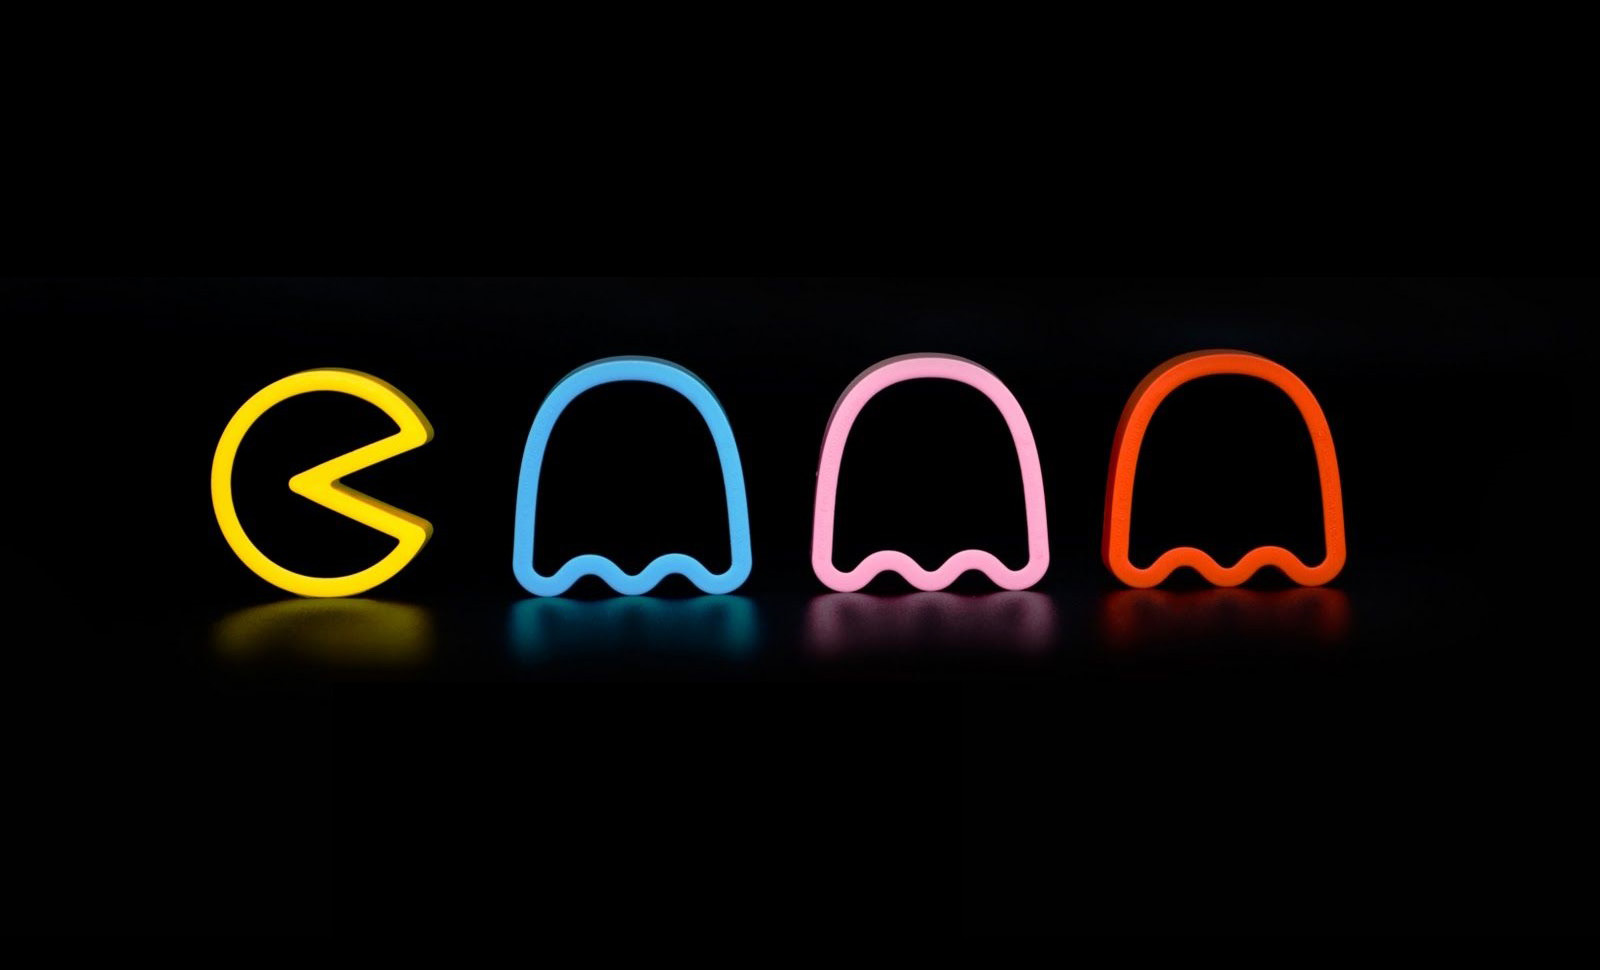
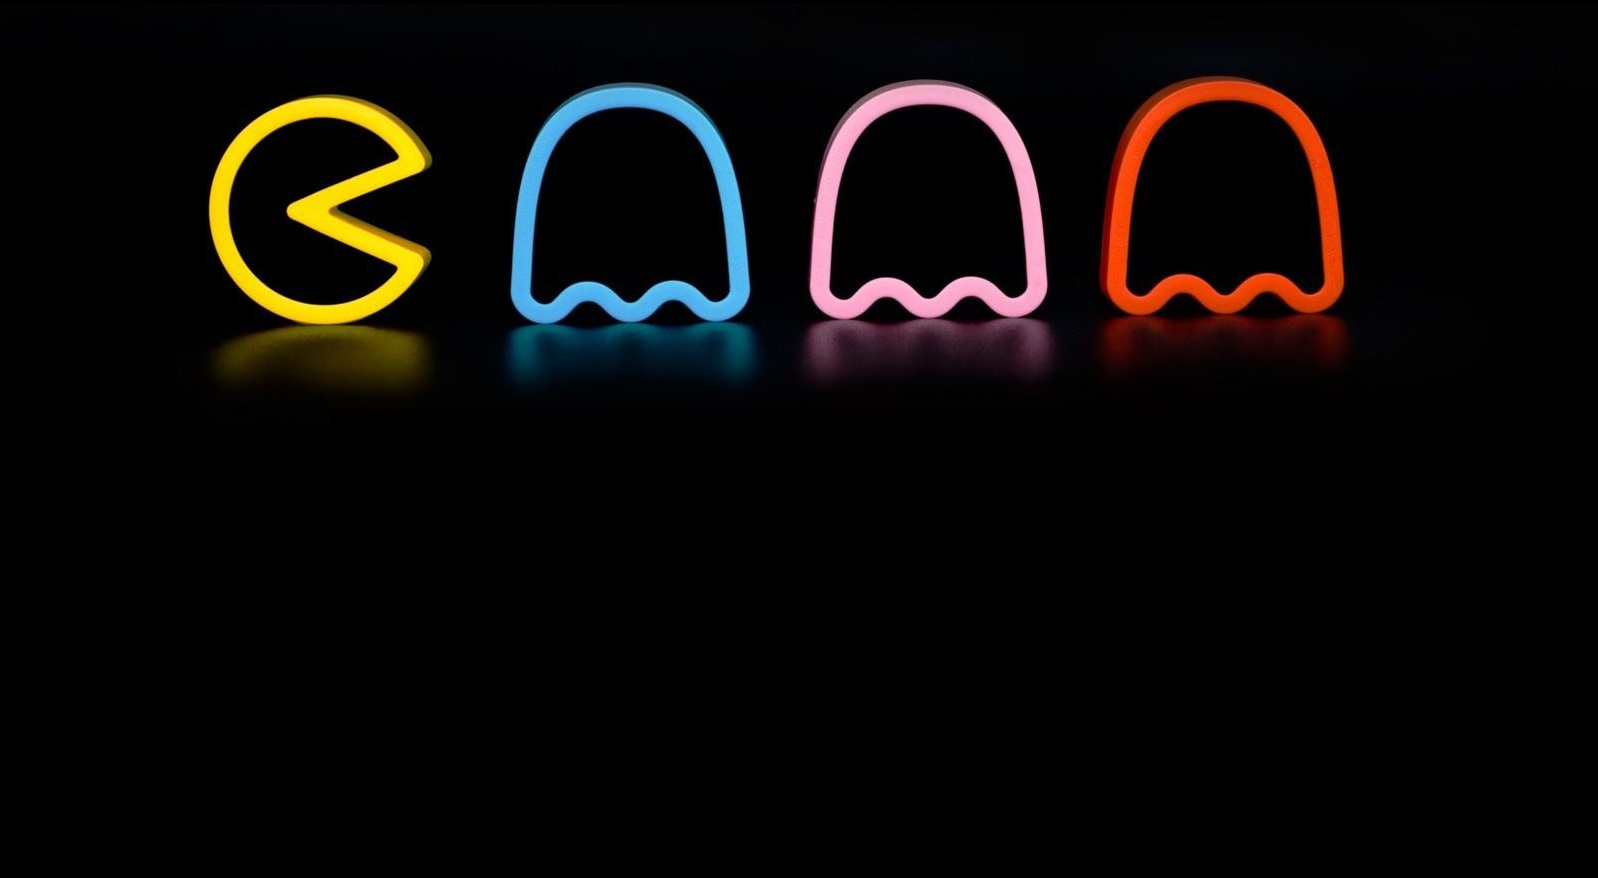
Initial Menu Done GUI

Changed region(s): [[0.3066, 0.0615, 0.8586, 0.6765], [0.1227, 0.0923, 0.276, 0.7073]]

diff --git a/gui/InitialMenuPanel.java b/gui/InitialMenuPanel.java
@@ -7,29 +7,93 @@ import java.awt.*;
 import java.awt.image.BufferedImage;
 import java.io.File;
 import java.io.IOException;
+import javax.swing.GroupLayout.Alignment;
+import javax.swing.border.EmptyBorder;
 
 class InitialMenuPanel extends JPanel{
-	
-	private BufferedImage image;
-	public InitialMenuPanel(){
+
+
+	private BufferedImage background;
+	private SpecialButton btnSettings;
+	private SpecialButton btnEditMap;
+	private SpecialButton btnPlay;
+	private SpecialButton btnExit;
+
+	public InitialMenuPanel(SpecialButton btnSettings,SpecialButton btnCreateMap,SpecialButton btnPlay,SpecialButton btnExit){
+		setBorder(new EmptyBorder(400, 0, 0, 0));
+		this.btnSettings = btnSettings; this.btnEditMap = btnCreateMap; this.btnPlay = btnPlay; this.btnExit = btnExit;
+		setLayout(new BoxLayout(this,BoxLayout.Y_AXIS));
+
+		prepareBtnPlay();
+
+		Component rigidArea = Box.createRigidArea(new Dimension(20, 20));
+		rigidArea.setEnabled(false);
+		add(rigidArea);
+
+		prepareBtnSettings();
+
+		Component rigidArea_1 = Box.createRigidArea(new Dimension(20, 20));
+		rigidArea_1.setEnabled(false);
+		add(rigidArea_1);
+
+		prepareBtnEditMap();
+		
+		Component rigidArea_2 = Box.createRigidArea(new Dimension(20, 20));
+		rigidArea_2.setEnabled(false);
+		add(rigidArea_2);
+		
+		prepareBtnExit();
+
 		init();
 	}
-	private void init(){
-		try {
-            image = ImageIO.read(new File("src/dkeep/assets/wallpaper.jpg"));
-        } catch (IOException ioe) {
-            ioe.printStackTrace();
-        }
+
+	private void prepareBtnPlay() {
+		this.btnPlay.setBackground(Color.BLACK);
+		this.btnPlay.setIcon(new ImageIcon(InitialMenuPanel.class.getResource("/dkeep/assets/playBtn.png")));
+		this.btnPlay.setAlignmentX(Component.CENTER_ALIGNMENT);
+		add(this.btnPlay);
+	}
+
+	private void prepareBtnSettings() {
+		this.btnSettings.setBackground(Color.BLACK);
+		this.btnSettings.setAlignmentX(Component.CENTER_ALIGNMENT);
+		this.btnSettings.setIcon(new ImageIcon(InitialMenuPanel.class.getResource("/dkeep/assets/settingsBtn.png")));
+		add(this.btnSettings);
+
 	}
 	
-	@Override
-    public Dimension getPreferredSize() {
-        return image == null ? new Dimension(400, 300): new Dimension(image.getWidth(), image.getHeight());
-    }
+	private void prepareBtnEditMap() {
+		this.btnEditMap.setBackground(Color.BLACK);
+		this.btnEditMap.setAlignmentX(Component.CENTER_ALIGNMENT);
+		this.btnEditMap.setIcon(new ImageIcon(InitialMenuPanel.class.getResource("/dkeep/assets/editMapBtn.png")));
+		add(this.btnEditMap);
+	}
+	
+	private void prepareBtnExit() {
+		this.btnExit.setBackground(Color.BLACK);
+		this.btnExit.setIcon(new ImageIcon(InitialMenuPanel.class.getResource("/dkeep/assets/exitBtn.png")));
+		this.btnExit.setAlignmentX(Component.CENTER_ALIGNMENT);
+		add(btnExit);
+	}
 
-    @Override
-    protected void paintComponent(Graphics g) {
-        super.paintComponent(g);
-        g.drawImage(image, 0, 0, this);
-    }
+
+
+	private void init(){
+		try {
+			background = ImageIO.read(new File("src/dkeep/assets/wallpaper.jpg"));
+		} catch (IOException ioe) {
+			ioe.printStackTrace();
+		}
+	}
+
+	@Override
+	public Dimension getPreferredSize() {
+		return background == null ? new Dimension(400, 300): new Dimension(background.getWidth(), background.getHeight());
+	}
+
+	@Override
+	protected void paintComponent(Graphics g) {
+		super.paintComponent(g);
+		g.drawImage(background, 0, 0, this);
+	}
 }

diff --git a/gui/Game_GUI.java b/gui/Game_GUI.java
@@ -9,15 +9,16 @@ import java.awt.*;
 class Game_GUI {
 	private JFrame mainFrame = new JFrame("Escape Game");
 	private JPanel containerPanel = new JPanel();
-	private JPanel menuPanel = new InitialMenuPanel();
+	
 	private SettingsPanel settingsPanel = new SettingsPanel();
 	private PlayPanel playPanel = new PlayPanel();
 	private EditMapPanel editMapPanel = new EditMapPanel();
 	private CardLayout cl = new CardLayout();
-	private JButton btnSettings = new JButton("Settings");
-	private JButton btnCreateMap = new JButton("Create Map");
-	private JButton btnPlay = new JButton("Play Game");
-	private JButton btnExit = new JButton("Exit");
+	private SpecialButton btnSettings = new SpecialButton();
+	private SpecialButton btnCreateMap = new SpecialButton();
+	private SpecialButton btnPlay = new SpecialButton();
+	private SpecialButton btnExit = new SpecialButton();
+	private JPanel menuPanel = new InitialMenuPanel(btnSettings,btnCreateMap,btnPlay,btnExit);
 	private JButton btnBackPlay = new JButton("Back");
 	private JButton btnBackSettings = new JButton("Back");
 	private JButton btnBackEditMap = new JButton("Back");
@@ -57,10 +58,6 @@ class Game_GUI {
 	private void initialize() {
 
 		containerPanel.setLayout(cl);
-		menuPanel.add(btnSettings);
-		menuPanel.add(btnCreateMap);
-		menuPanel.add(btnPlay);
-		menuPanel.add(btnExit);
 		playPanel.add(btnBackPlay, BorderLayout.PAGE_END);
 		settingsPanel.add(btnBackSettings);
 		editMapPanel.add(btnBackEditMap, BorderLayout.PAGE_END);

diff --git a/gui/SpecialButton.java b/gui/SpecialButton.java
@@ -18,6 +18,9 @@ class SpecialButton extends JButton{
 		//setMargin(new Insets(0, 0, 0, 0));
         image = img;
 	}
+	public SpecialButton(){
+		super();
+	}
 	
 	
 	public Character getType() {
